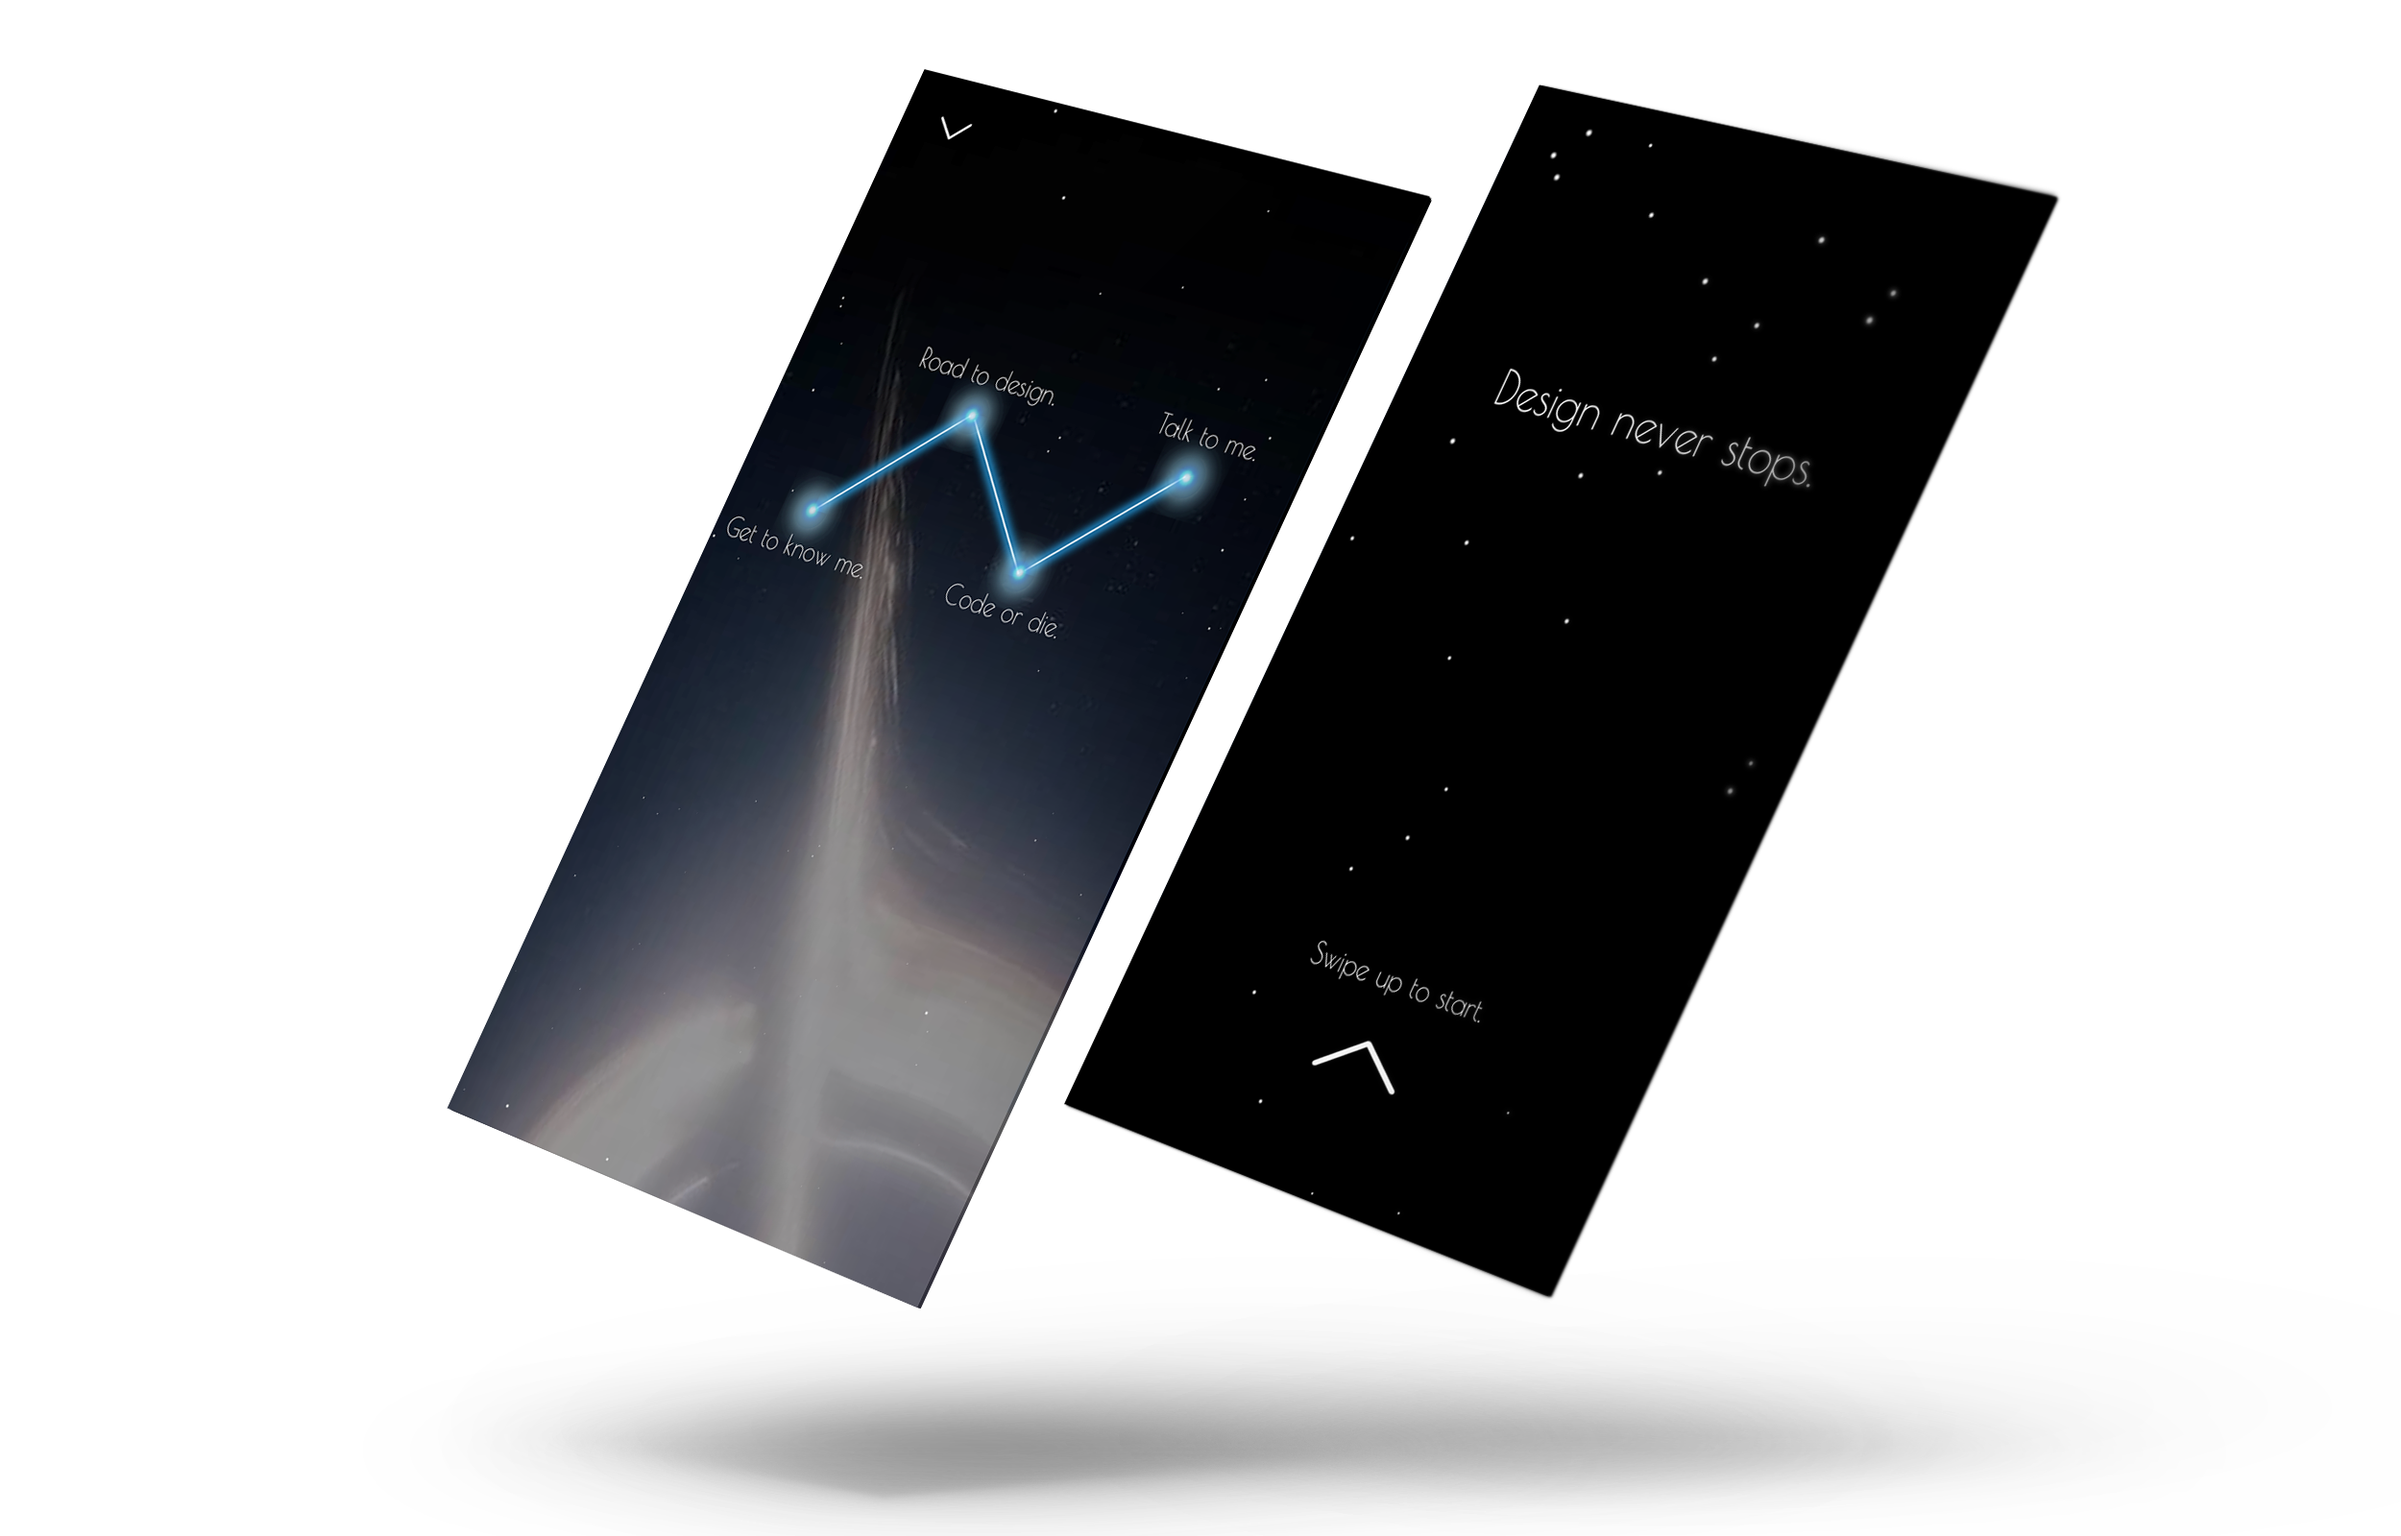
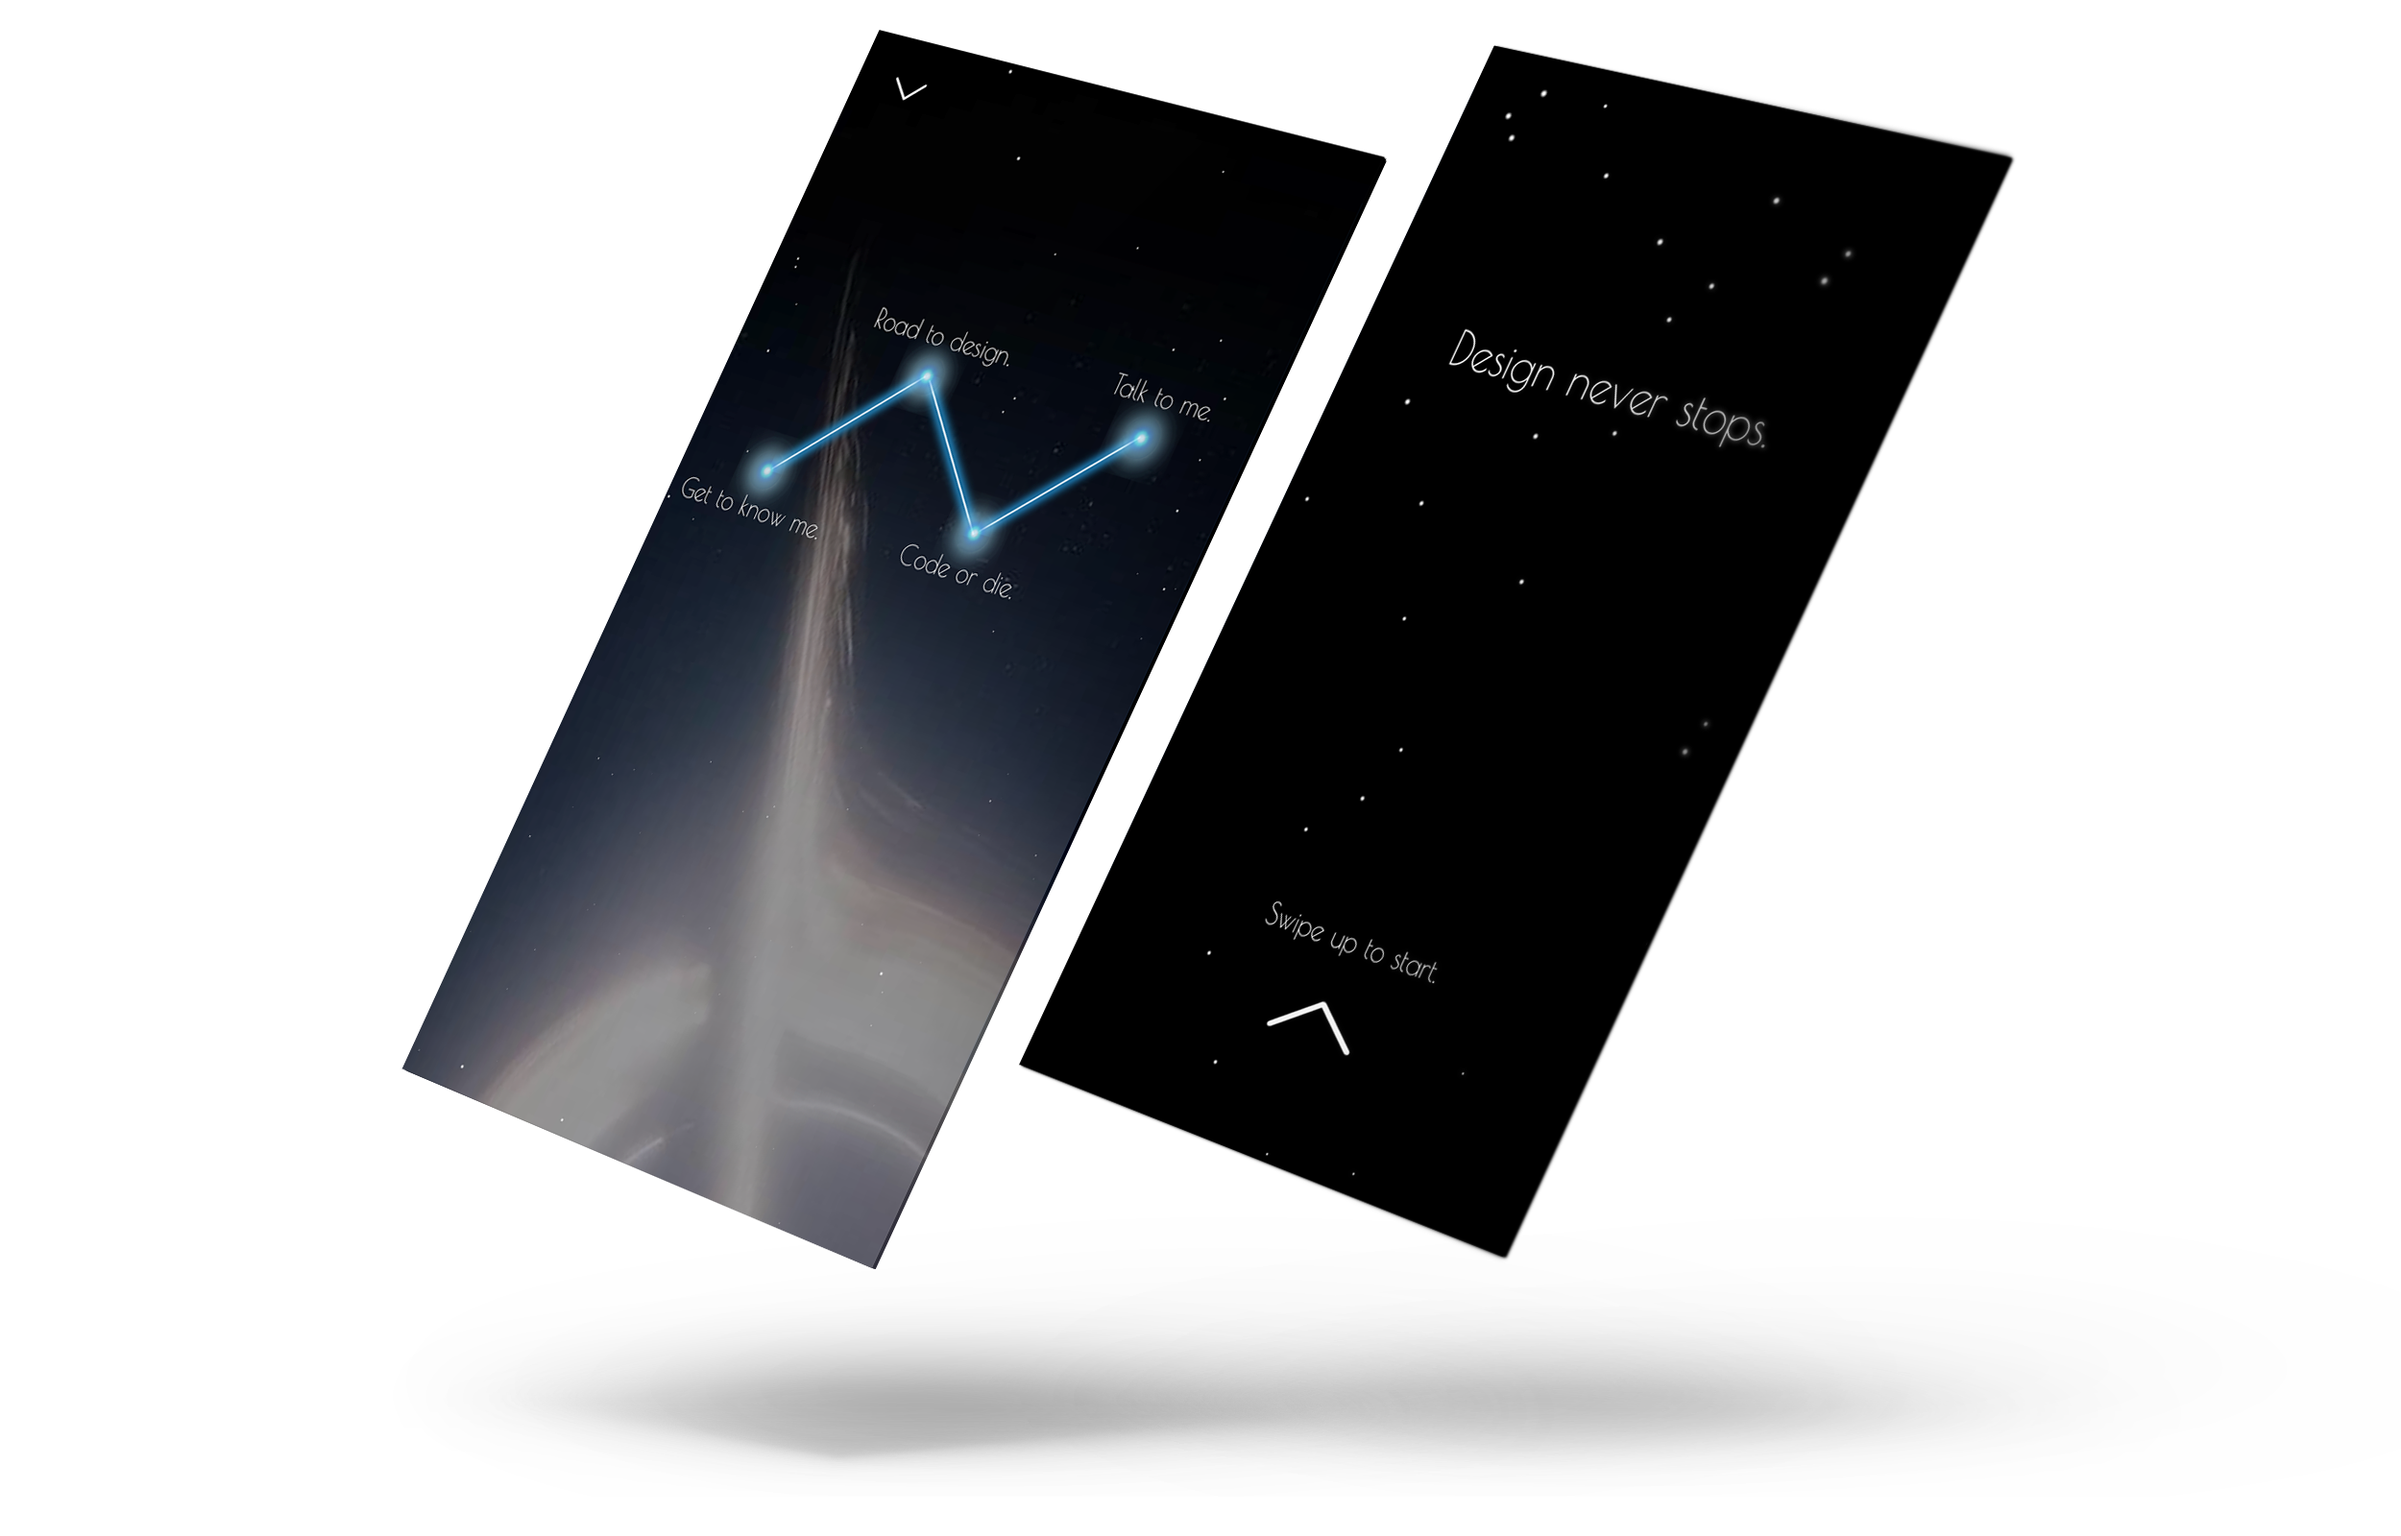
mobile friendly again

diff --git a/style/style.css b/style/style.css
@@ -293,47 +293,22 @@
 				height: 100%;
 			}
 
-			.des-container * {
-				display: inline-block;
-			}
-
 
 			.design .des-1 .mockup {
 				background: url("../img/super-math-mockup.png") no-repeat center center;
 				background-size: contain;
-			    width: 70%;
-			    height: 70%;
-			    margin: 0;
 
 			}
 
 			.design .des-2 .mockup {
 				background: url("../img/schedule-hero-mockup-2.png") no-repeat center center;
 				background-size: contain;
-			    width: 70%;
-			    height: 70%;
-			    position: absolute;
-				left: 0; 
-		        right: 0; 
-		        top: 0; 
-		        bottom: 0; 
-		        margin: auto;
-		        margin-left: 0;
 
 			}
 
 			.design .des-3 .mockup {
 				background: url("../img/galaxy-mockup.png") no-repeat center center;
 				background-size: contain;
-			    width: 70%;
-			    height: 70%;
-			    position: absolute;
-				left: 0; 
-		        right: 0; 
-		        top: 0; 
-		        bottom: 0; 
-		        margin: auto;
-		        margin-left: 0;
 
 			}
 
@@ -341,19 +316,58 @@
                 .design .des-1 .mockup, .design .des-2 .mockup, .design .des-3 .mockup {
                   width: 100%;
                   height: 70%;
+                  position: absolute;
+				  left: 0; 
+		          right: 0; 
+		          top: 0; 
+		          bottom: 0; 
+		          margin: auto;
+		          margin-top: 5%;
+
                 }
+
+                .app-name {
+			      font-size: 3.5em;
+			      width: 70%;
+			      height: 20%;
+			      position: absolute;
+				  left: 0; 
+		          right: 0; 
+		          top: 0; 
+		          bottom: 0; 
+		          margin: auto;
+		          margin-bottom: 20%;
+		          text-align: center;
+			    }
               }
 
               @media screen and (min-width: 768px) {
                 .design .des-1 .mockup, .design .des-2 .mockup, .design .des-3 .mockup {
                   width: 70%;
                   height: 70%;
+                  position: absolute;
+				  left: 0; 
+		          right: 0; 
+		          top: 0; 
+		          bottom: 0; 
+		          margin: auto;
+		          margin-left: 0;
                 }
-              }
 
-			.design .app-name {
-				font-size: 4em;
-			}
+
+			    .app-name {
+			      font-size: 5em;
+			      width: 50%;
+			      height: 10%;
+			      position: absolute;
+				  left: 0; 
+		          right: 0; 
+		          top: 0; 
+		          bottom: 0; 
+		          margin: auto;
+		          margin-right: 0;
+			    }
+              }
 
 			.about {
 				background-color: #000;

diff --git a/v3.0.html b/v3.0.html
@@ -110,7 +110,7 @@
                          <div class="swiper-slide des-2">
                             <div class="des-container">
                                 <div class="mockup"></div>
-                                <div class="app-name">ScheduleHero</div>
+                                <div class="app-name">Schedule Hero</div>
                             </div>
                          </div>
                          <div class="swiper-slide des-3">
